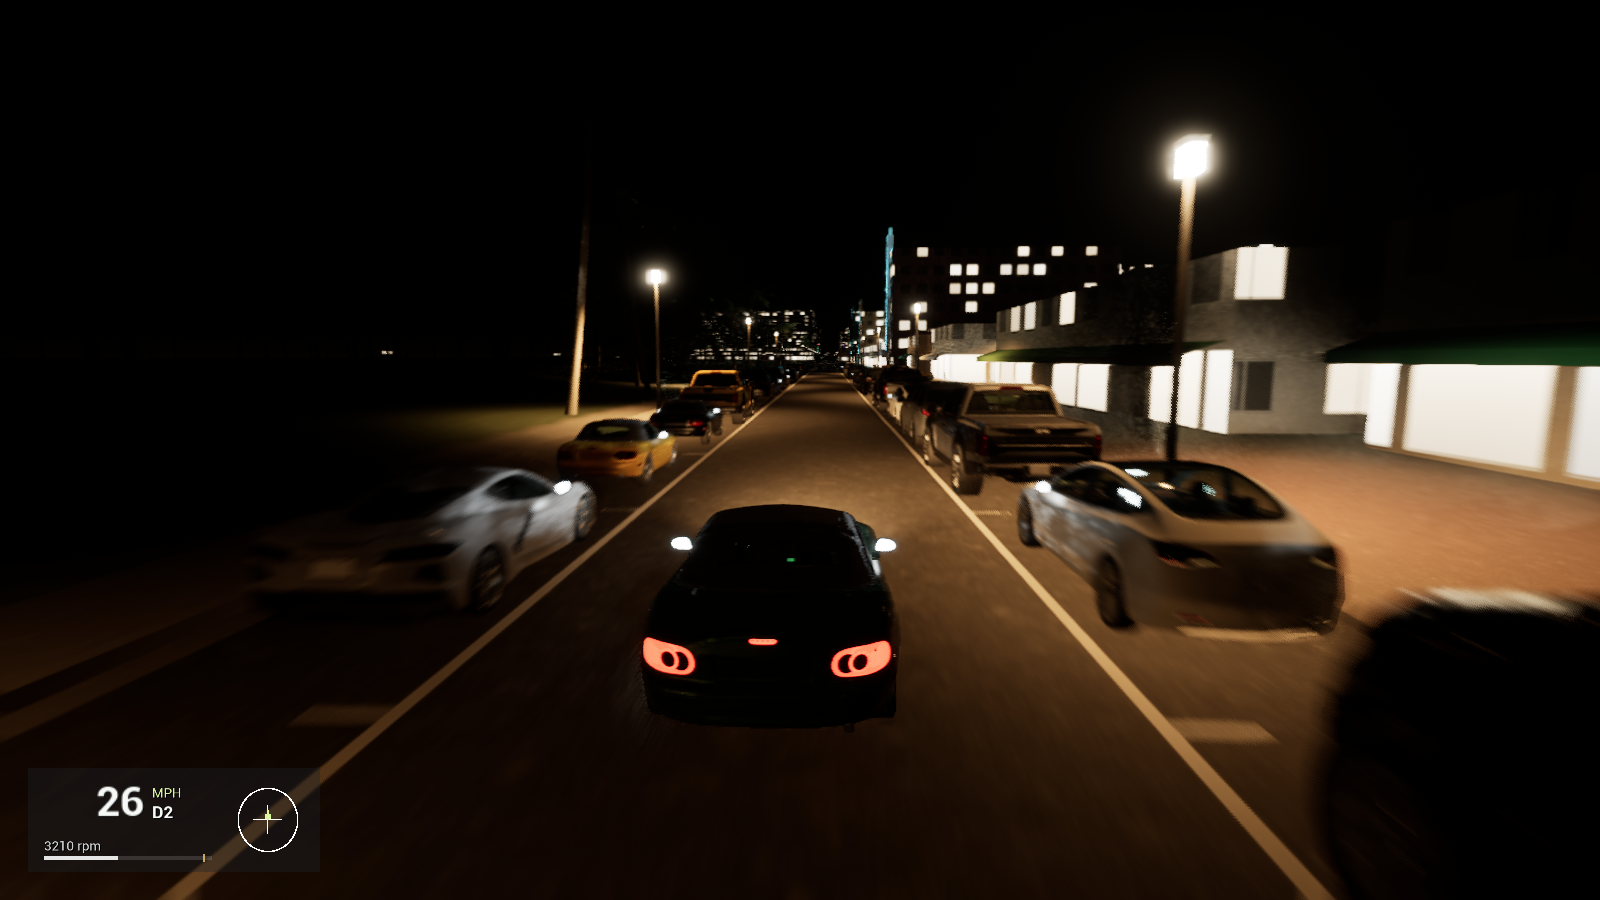
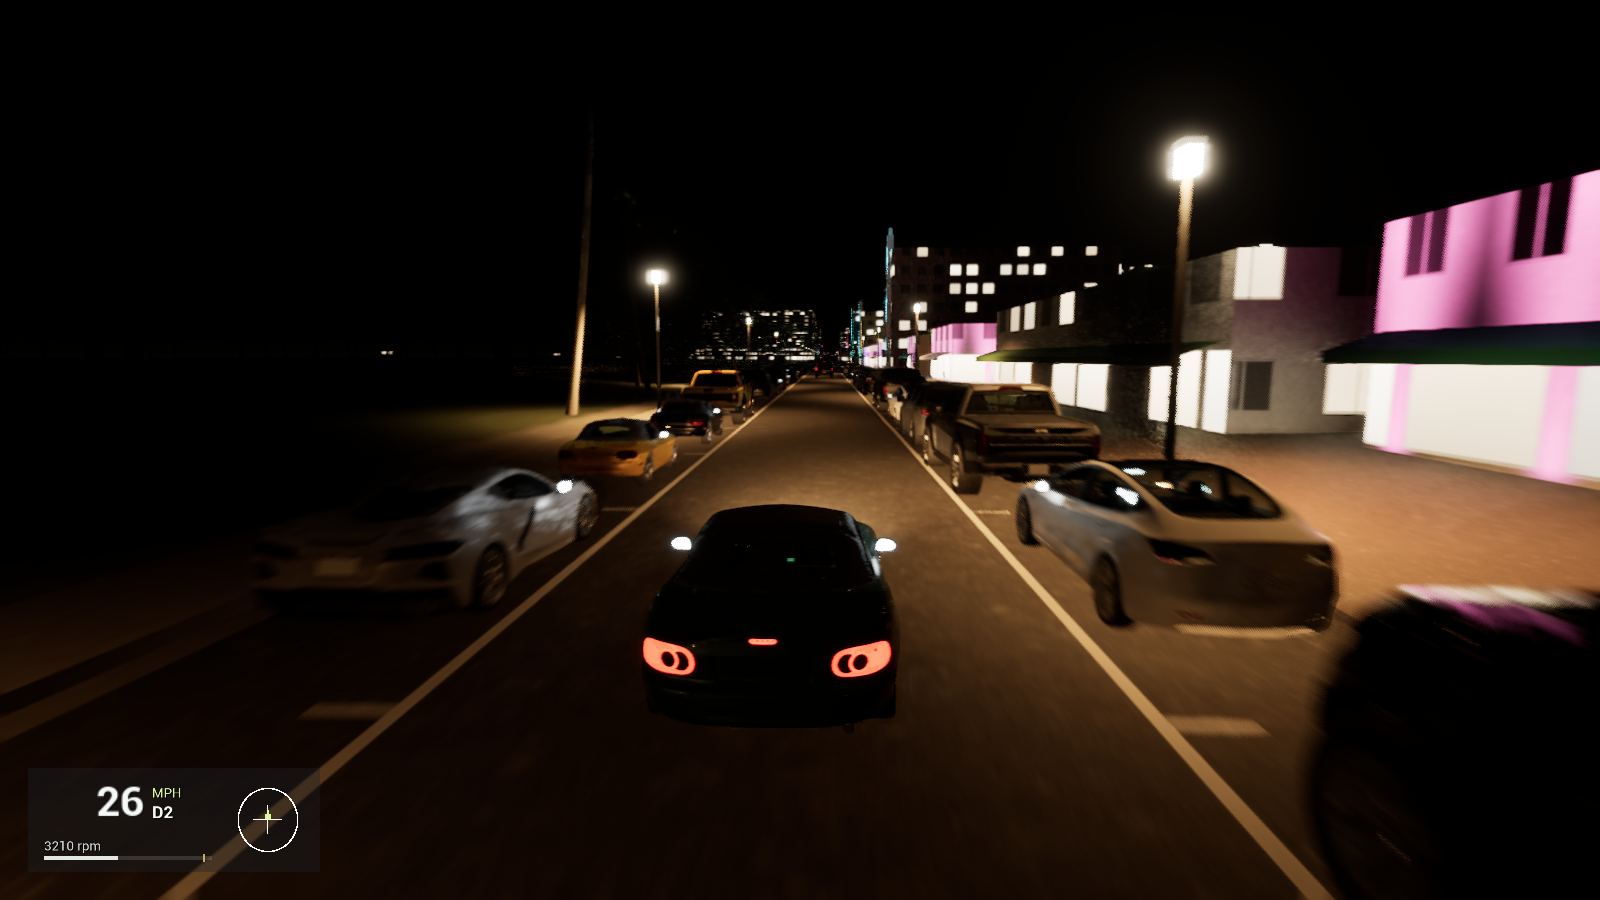
Ocean Drive's hotels glow at night; traffic never spawns in your path
Art Deco street fronts are their own surface kinds (DecoFront, DecoUpper);
at night the shader washes them in coloured uplight, a fixture every 3.6 m,
about 310 lux at the base fading over the first storeys, pink, violet, cyan,
teal or warm white on three hotels in five. Traffic spawns are rejected
within 150 m ahead and 4 m of the player's line.

diff --git a/Source/SimCruise/Private/World/SimCruiseWorldResources.cpp b/Source/SimCruise/Private/World/SimCruiseWorldResources.cpp
@@ -205,7 +205,7 @@ float3 col = stucco;
 float rough = 0.88;
 float metal = 0.0;
 float3 emis = float3(0.0, 0.0, 0.0);
-if (kind < 0.5 || abs(kind - 11.0) < 0.5)
+if (kind < 0.5 || (kind > 10.5 && kind < 13.5))
 {
 	const float storey = 3.1;
 	float level = floor(max(h, 0.0) / storey);
@@ -215,7 +215,7 @@ if (kind < 0.5 || abs(kind - 11.0) < 0.5)
 	float winW = bayW * (0.46 + 0.16 * frac(seed * 3.71));
 	float x0 = 0.5 * (bayW - winW);
 	float y0 = 0.95, y1 = 2.42;
-	bool shop = kind > 10.5 && level < 0.5;
+	bool shop = kind > 10.5 && kind < 12.5 && level < 0.5;
 	if (shop)
 	{
 		bayW = 3.6; x = frac(along / bayW + 0.5) * bayW; winW = 3.1; x0 = 0.25; y0 = 0.35; y1 = 2.65;
@@ -248,6 +248,20 @@ if (kind < 0.5 || abs(kind - 11.0) < 0.5)
 	// room 15-45; dimmer and the street's reflection in the pane (noisy at night) wins.
 	float depth = shop ? lerp(0.45, 1.0, saturate((y - y0) / (y1 - y0))) : 1.0;
 	emis = pane * lit * Lights * depth * lerp(float3(1.0, 0.72, 0.45), float3(1.0, 0.86, 0.7), frac(r * 3.3)) * (shop ? 60.0 + 90.0 * frac(r * 5.1) : 15.0 + 30.0 * frac(r * 9.7));
+	// Art Deco street fronts at night: coloured uplights at the foot of the facade, one
+	// every 3.6 m, washing the stucco (about 310 lux at the base, falling off upward), on
+	// three hotels in five; pink, violet, cyan, teal or warm white per hotel.
+	if (kind > 11.5)
+	{
+		float pick = frac(seed * 13.37);
+		float3 tints[5] = { float3(1.0, 0.22, 0.62), float3(0.55, 0.28, 1.0), float3(0.18, 0.75, 1.0), float3(0.15, 1.0, 0.72), float3(1.0, 0.72, 0.45) };
+		float3 wc = tints[(int)floor(frac(seed * 5.71) * 4.999)];
+		float fx = (frac(along / 3.6) - 0.5) * 3.6;
+		float spread = 0.28 + 0.2 * max(h, 0.0);
+		float cone = exp(-(fx * fx) / (spread * spread));
+		float fall = exp(-max(h, 0.0) / 5.0) * smoothstep(0.05, 0.5, h);
+		emis += step(pick, 0.6) * Lights * stucco * wc * 100.0 * cone * fall * (1.0 - pane);
+	}
 }
 else if (kind < 1.5) { rough = 0.86; }
 else if (kind < 2.5) { col = VC.rgb * lerp(1.0, grain, 0.35); rough = 0.93; }

diff --git a/Source/SimCruise/Private/World/SimCruiseTraffic.cpp b/Source/SimCruise/Private/World/SimCruiseTraffic.cpp
@@ -496,7 +496,7 @@ void ASimCruiseTraffic::Advance(ASimCruiseTrafficCar& Car, double Dt, const FVec
 	Car.SteerRad += (FMath::Clamp(Steer, -0.6, 0.6) - Car.SteerRad) * (1.0 - FMath::Exp(-Dt / 0.15));
 }
 
-bool ASimCruiseTraffic::Spawn(const FVector& FocusCm, const FVector& CameraCm, const FVector& CameraFwd, bool bAnywhere)
+bool ASimCruiseTraffic::Spawn(const FVector& FocusCm, const FVector& PlayerFwd, const FVector& CameraCm, const FVector& CameraFwd, bool bAnywhere)
 {
 	// A random lane position on a public road of a loaded tile, out of the driver's sight.
 	TArray<FIntPoint> TileIds;
@@ -527,6 +527,12 @@ bool ASimCruiseTraffic::Spawn(const FVector& FocusCm, const FVector& CameraCm, c
 		const FVector ToPose = Pose.LocationCm - CameraCm;
 		const bool bInSight = FVector::DotProduct(ToPose.GetSafeNormal(), CameraFwd) > 0.2 && ToPose.Size() < 160.0 * 100.0;
 		if (!bAnywhere && bInSight) continue;
+		// Never in the player's path just ahead (a car appearing there would be in the way
+		// before the driver could have seen it arrive).
+		const FVector2d Ahead(PlayerFwd.X, PlayerFwd.Y);
+		const FVector2d Rel((Pose.LocationCm.X - FocusCm.X) / 100.0, (Pose.LocationCm.Y - FocusCm.Y) / 100.0);
+		const double Along = FVector2d::DotProduct(Rel, Ahead.GetSafeNormal());
+		if (!Ahead.IsNearlyZero() && Along > 0.0 && Along < 150.0 && FMath::Abs(Rel.X * Ahead.GetSafeNormal().Y - Rel.Y * Ahead.GetSafeNormal().X) < 4.0) continue;
 		bool bCrowded = false;
 		for (const ASimCruiseTrafficCar* Other : Cars)
 		{
@@ -615,6 +621,6 @@ void ASimCruiseTraffic::Tick(float DeltaSeconds)
 	const int32 Want = FMath::Max(0, CVarTrafficCars.GetValueOnGameThread());
 	for (int32 Tries = 0; Tries < 2 && Cars.Num() < Want; ++Tries)
 	{
-		Spawn(Focus, CameraCm, CameraFwd, SinceStart < 3.0);
+		Spawn(Focus, Player->GetActorForwardVector(), CameraCm, CameraFwd, SinceStart < 3.0);
 	}
 }

diff --git a/Source/SimCruise/Private/World/SimCruiseTileDetail.cpp b/Source/SimCruise/Private/World/SimCruiseTileDetail.cpp
@@ -290,7 +290,9 @@ namespace SimCruiseTileDetail
 				const bool bPorch = bDeco && Front[i] && Len >= 8.0 && Height >= 6.0 && bConvexA && bConvexC && PorchDepth >= 1.5 && Unit(Hash(H, 9)) < 0.8;
 
 				const double WallStart = bPorch ? Ground + FloorH : Bottom;
-				const float WallKind = (Front[i] && !bPorch) ? Kind::WallFront : Kind::Wall;
+				// Street fronts: shop glass in the ground storey, and on Art Deco hotels the
+				// coloured uplight wash that lights Ocean Drive at night.
+				const float WallKind = !Front[i] ? Kind::Wall : bPorch ? (bDeco ? Kind::DecoUpper : Kind::Wall) : (bDeco ? Kind::DecoFront : Kind::WallFront);
 				W.Panel(A, C, WallStart, Top + Parapet, N2, Wall, WallKind, Along0, Ground);
 				// The parapet's inside, seen from above and from taller neighbours.
 				W.Panel(C, A, Top, Top + Parapet, -N2, Wall, Kind::Trim, Along0, Ground);

diff --git a/Source/SimCruise/Public/World/SimCruiseTraffic.h b/Source/SimCruise/Public/World/SimCruiseTraffic.h
@@ -136,7 +136,7 @@ private:
 
 	const FSimCruiseRibbon* GetRibbon(const FIntPoint& Tile, int32 Ribbon) const;
 	FPose PoseAt(const FIntPoint& Tile, int32 Ribbon, int32 Dir, double S) const;
-	bool Spawn(const FVector& FocusCm, const FVector& CameraCm, const FVector& CameraFwd, bool bAnywhere);
+	bool Spawn(const FVector& FocusCm, const FVector& PlayerFwd, const FVector& CameraCm, const FVector& CameraFwd, bool bAnywhere);
 	/** Picks the way on at DecisionS (a junction along the ribbon, or its end when bAtEnd). */
 	bool ChooseAt(ASimCruiseTrafficCar& Car, double DecisionS, bool bAtEnd) const;
 	void Advance(ASimCruiseTrafficCar& Car, double Dt, const FVector& PlayerCm, const FVector& PlayerVelCm);

diff --git a/Source/SimCruise/Public/World/SimCruiseTileBuilder.h b/Source/SimCruise/Public/World/SimCruiseTileBuilder.h
@@ -40,6 +40,8 @@ namespace SimCruiseSurfaceKind
 	inline constexpr float Railing = 9.f;     // balcony glass
 	inline constexpr float Frond = 10.f;      // palm leaf card
 	inline constexpr float WallFront = 11.f;  // a street facade: shopfront glass in the ground storey
+	inline constexpr float DecoFront = 12.f;  // an Art Deco hotel's street facade with shops, washed in coloured light at night
+	inline constexpr float DecoUpper = 13.f;  // an Art Deco street facade above a porch, washed in coloured light at night
 }
 
 /** Plain mesh buffers in tile-local centimetres (x east, y south, z up). */

diff --git a/CHANGELOG.md b/CHANGELOG.md
@@ -4,6 +4,7 @@ Notable changes to SimCruise, newest first. The format follows [Keep a Changelog
 
 ## Unreleased
 
+- **Ocean Drive's hotels glow at night** (`World/SimCruiseWorldResources`, `SimCruiseTileDetail`) — the street fronts of the Art Deco hotels now take coloured uplight at night, as Ocean Drive's do: a fixture every 3.6 m at the foot of the facade throws a cone of pink, violet, cyan, teal or warm white light up the stucco (about 310 lux at the base, fading over the first storeys), on three hotels in five. Traffic no longer appears in your path just ahead (within 150 m and 4 m of your line), where a car could be in the way before you saw it arrive.
 - **Lit windows at night are lit, not speckled** (`World/SimCruiseWorldResources`) — at night many shop and room windows showed salt-and-pepper noise. Each window draws a random number from a hash of its building's seed, which reaches the shader as an interpolated vertex value a few 1e-7 off across a triangle; the hash multiplies it by about 1e7, so neighbouring pixels drew different numbers and a window was half lit, half dark. The seed is now quantised before hashing (the palm fronds' leaflets used the same hash). Lit interiors were also far too dim against the street (2-12 cd/m2): a lit shop now shows 60-150 cd/m2 through its glass and a lit room 15-45, as real ones do at night, and a lit pane shows its light rather than a mirror. Window edges are filtered over the pixel's footprint, so distant windows do not alias.
 - **The radio shows its station** (`Presentation/SimCruiseCarClock`, `CarPresentation.json` `clock.radio_mhz`) — the roadster's radio display still read the painted 2:15 under the live clock: the model maps the clock's texture a second time, wrapped, onto the radio's LCD, outside the clock's box. The box is now tested on the wrapped texture, and the radio's copy shows the tuned FM station in the same seven-segment digits: WLRN, Miami's public radio, 91.3.
 - **The V8s sound like V8s** (`Audio/SimCruiseInlineFourSynth::ConfigureCrossPlaneV8`, `CarPresentation.json` `engine_sound`) — the 1965 Mustang's 289 and the C8's LT2 played the inline four's voice, firing at half their real rate. They now fire four times a revolution in their real firing orders (Ford 1-5-4-2-6-3-7-8, GM 1-8-7-2-6-5-4-3), and each bank's uneven pulses reach you from its own pipe, the nearer one louder: the cross-plane burble between the firing harmonics. The bank loudness is an estimate. `SimCruise.Audio.CrossPlaneV8` checks the firing frequency (rpm / 15) and the burble.

diff --git a/docs/unreal-architecture.md b/docs/unreal-architecture.md
@@ -644,6 +644,10 @@ A tile's procedural mesh went through Unreal's dynamic draw path, which virtual 
 
 The building shader draws each window's state (lit or dark, tint) from a sin-hash of the window's cell and the building's seed. The seed arrives as a vertex attribute, constant per building but interpolated a few 1e-7 off across a triangle, and the hash amplifies it by about 1e7, so pixels of one window drew different numbers: half-lit, speckled windows at night, shown by elimination (not Lumen reflections, `r.Lumen.Reflections.Allow 0`; not Lumen GI, `r.Lumen.DiffuseIndirect.Allow 0`; still in a still frame). The shader now quantises the seed to 1/4096 before any hash, as does the palm frond shader. Lit interiors were 2-12 nits, so the pane's reflection of the dark street won; they are now shops 60-150 and rooms 15-45 cd/m2 (a shop lit to 500-1000 lux, a room to 100-300), with a lit pane rough (its light, not a mirror), and the porch storefronts 80. Window edges, frames and mullions are filtered with `fwidth`, fading to their average where thinner than a pixel.
 
+Art Deco street fronts are their own surface kinds (`DecoFront` 12 with shops, `DecoUpper` 13 above a porch), which the shader treats as facades and, at night, washes in coloured light: one uplight every 3.6 m (a cone widening 0.28 m + 0.2 m per metre of height), falling off over 5 m, about 310 lux at the base reflected by the stucco's albedo, in one of five colours (pink, violet, cyan, teal, warm white) on three hotels in five, from the building's seed. Reference: Ocean Drive at night is lit by its facades' coloured floodlights and neon more than by its street lights.
+
+![Ocean Drive at night: lit shops and coloured hotel fronts](images/unreal/round2-night-street.png)
+
 ![Before: speckled windows](images/unreal/round2-night-fronts-before.png)
 
 ![After: shop windows and rooms lit evenly](images/unreal/round2-night-fronts.png)
